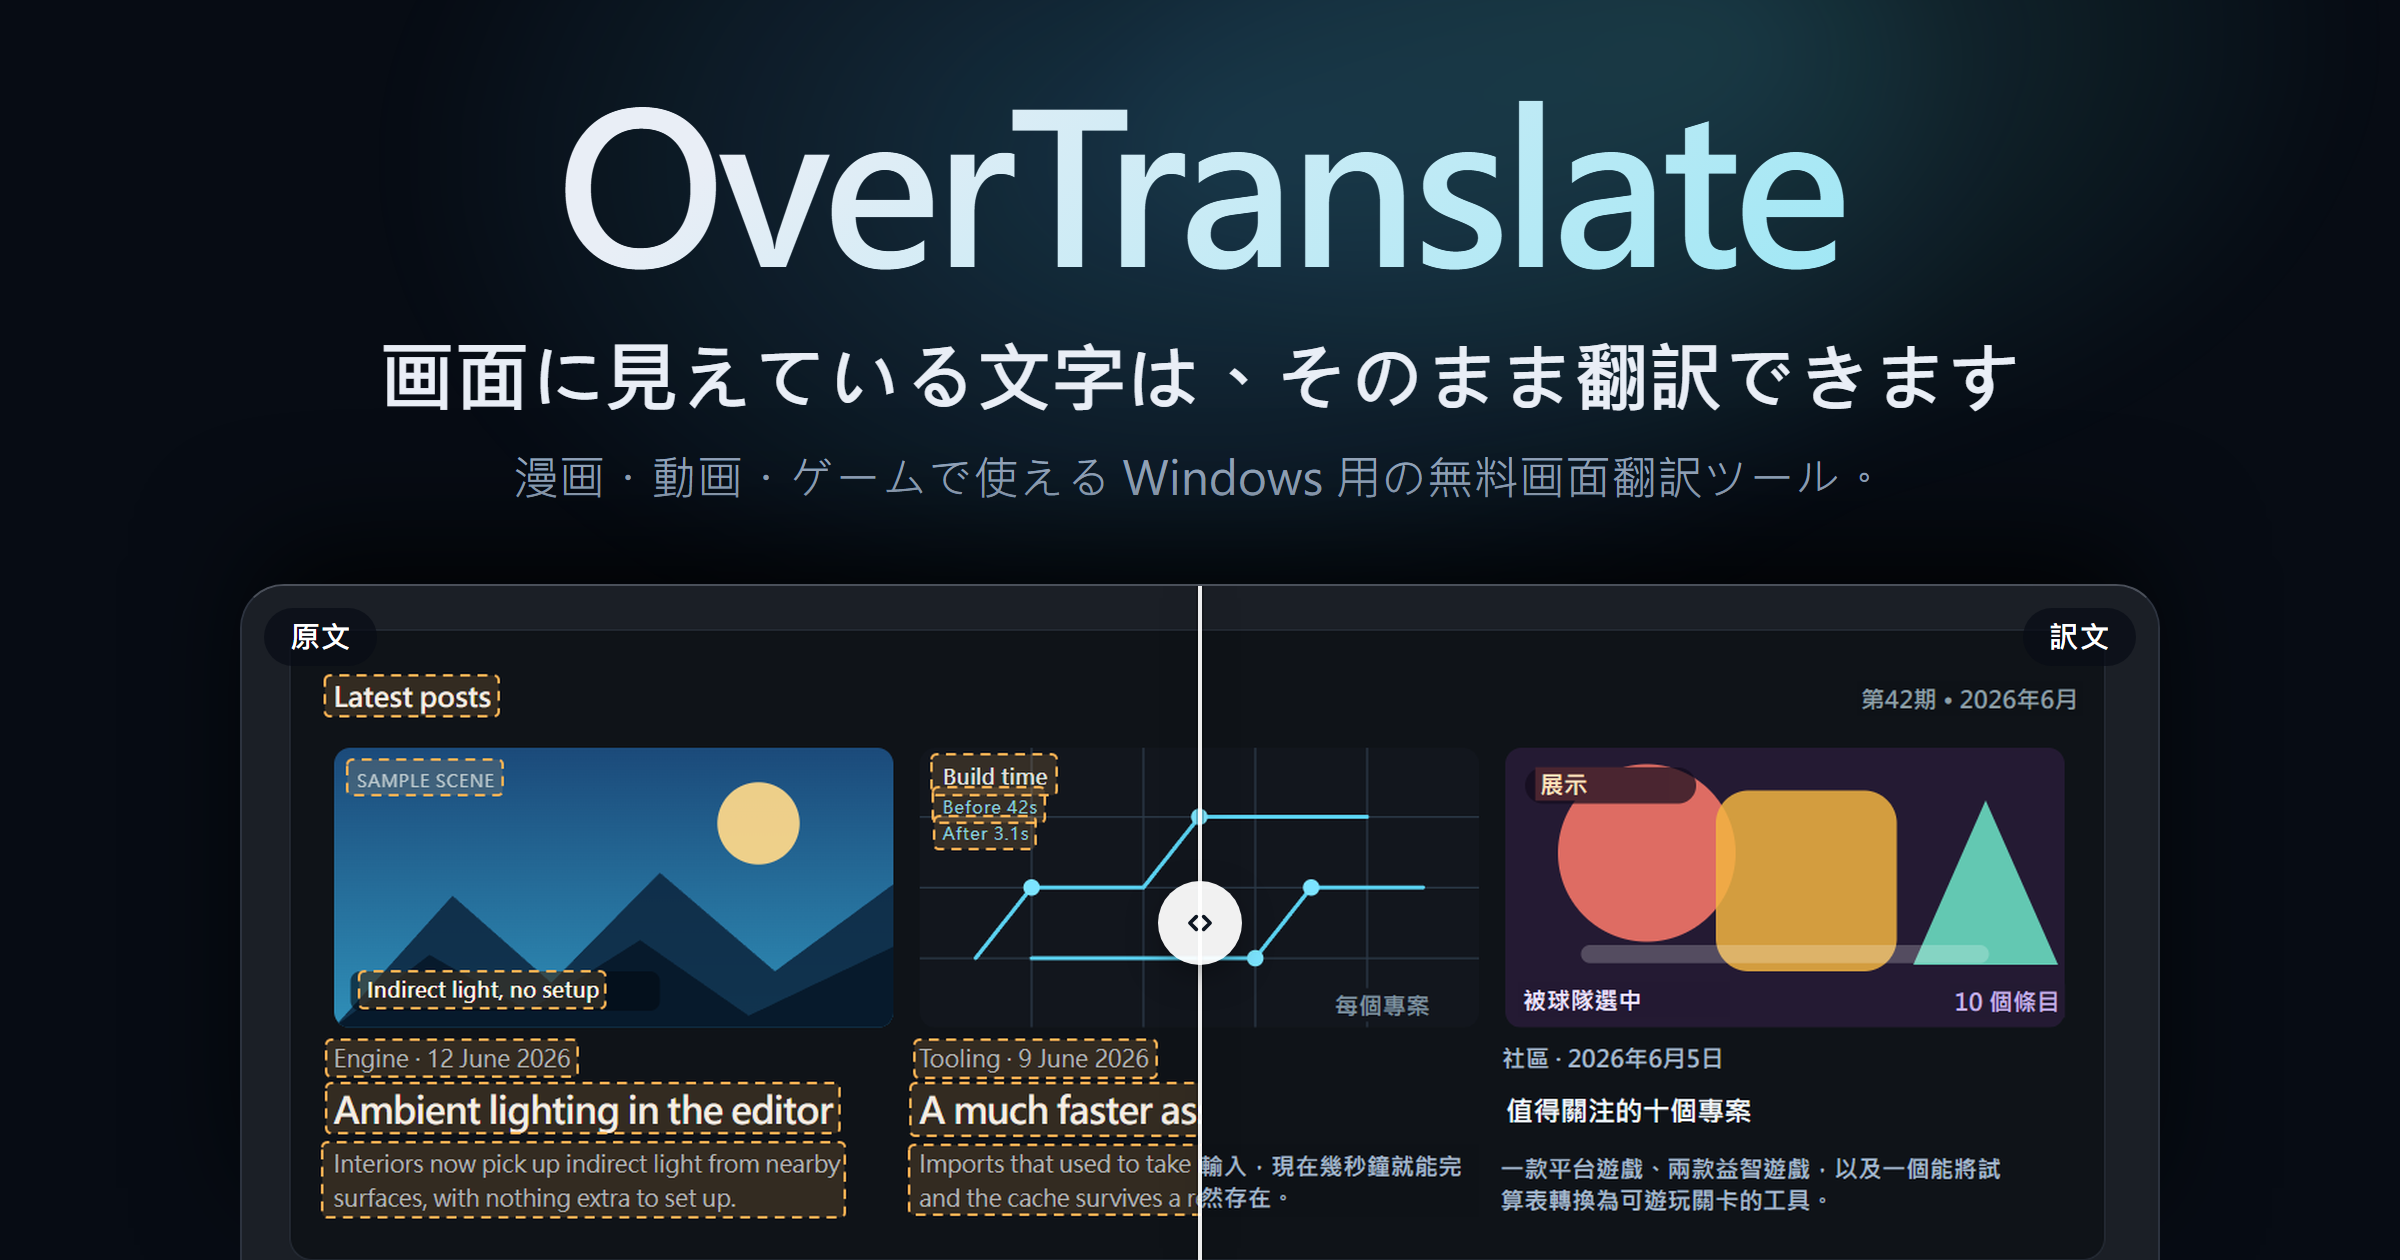
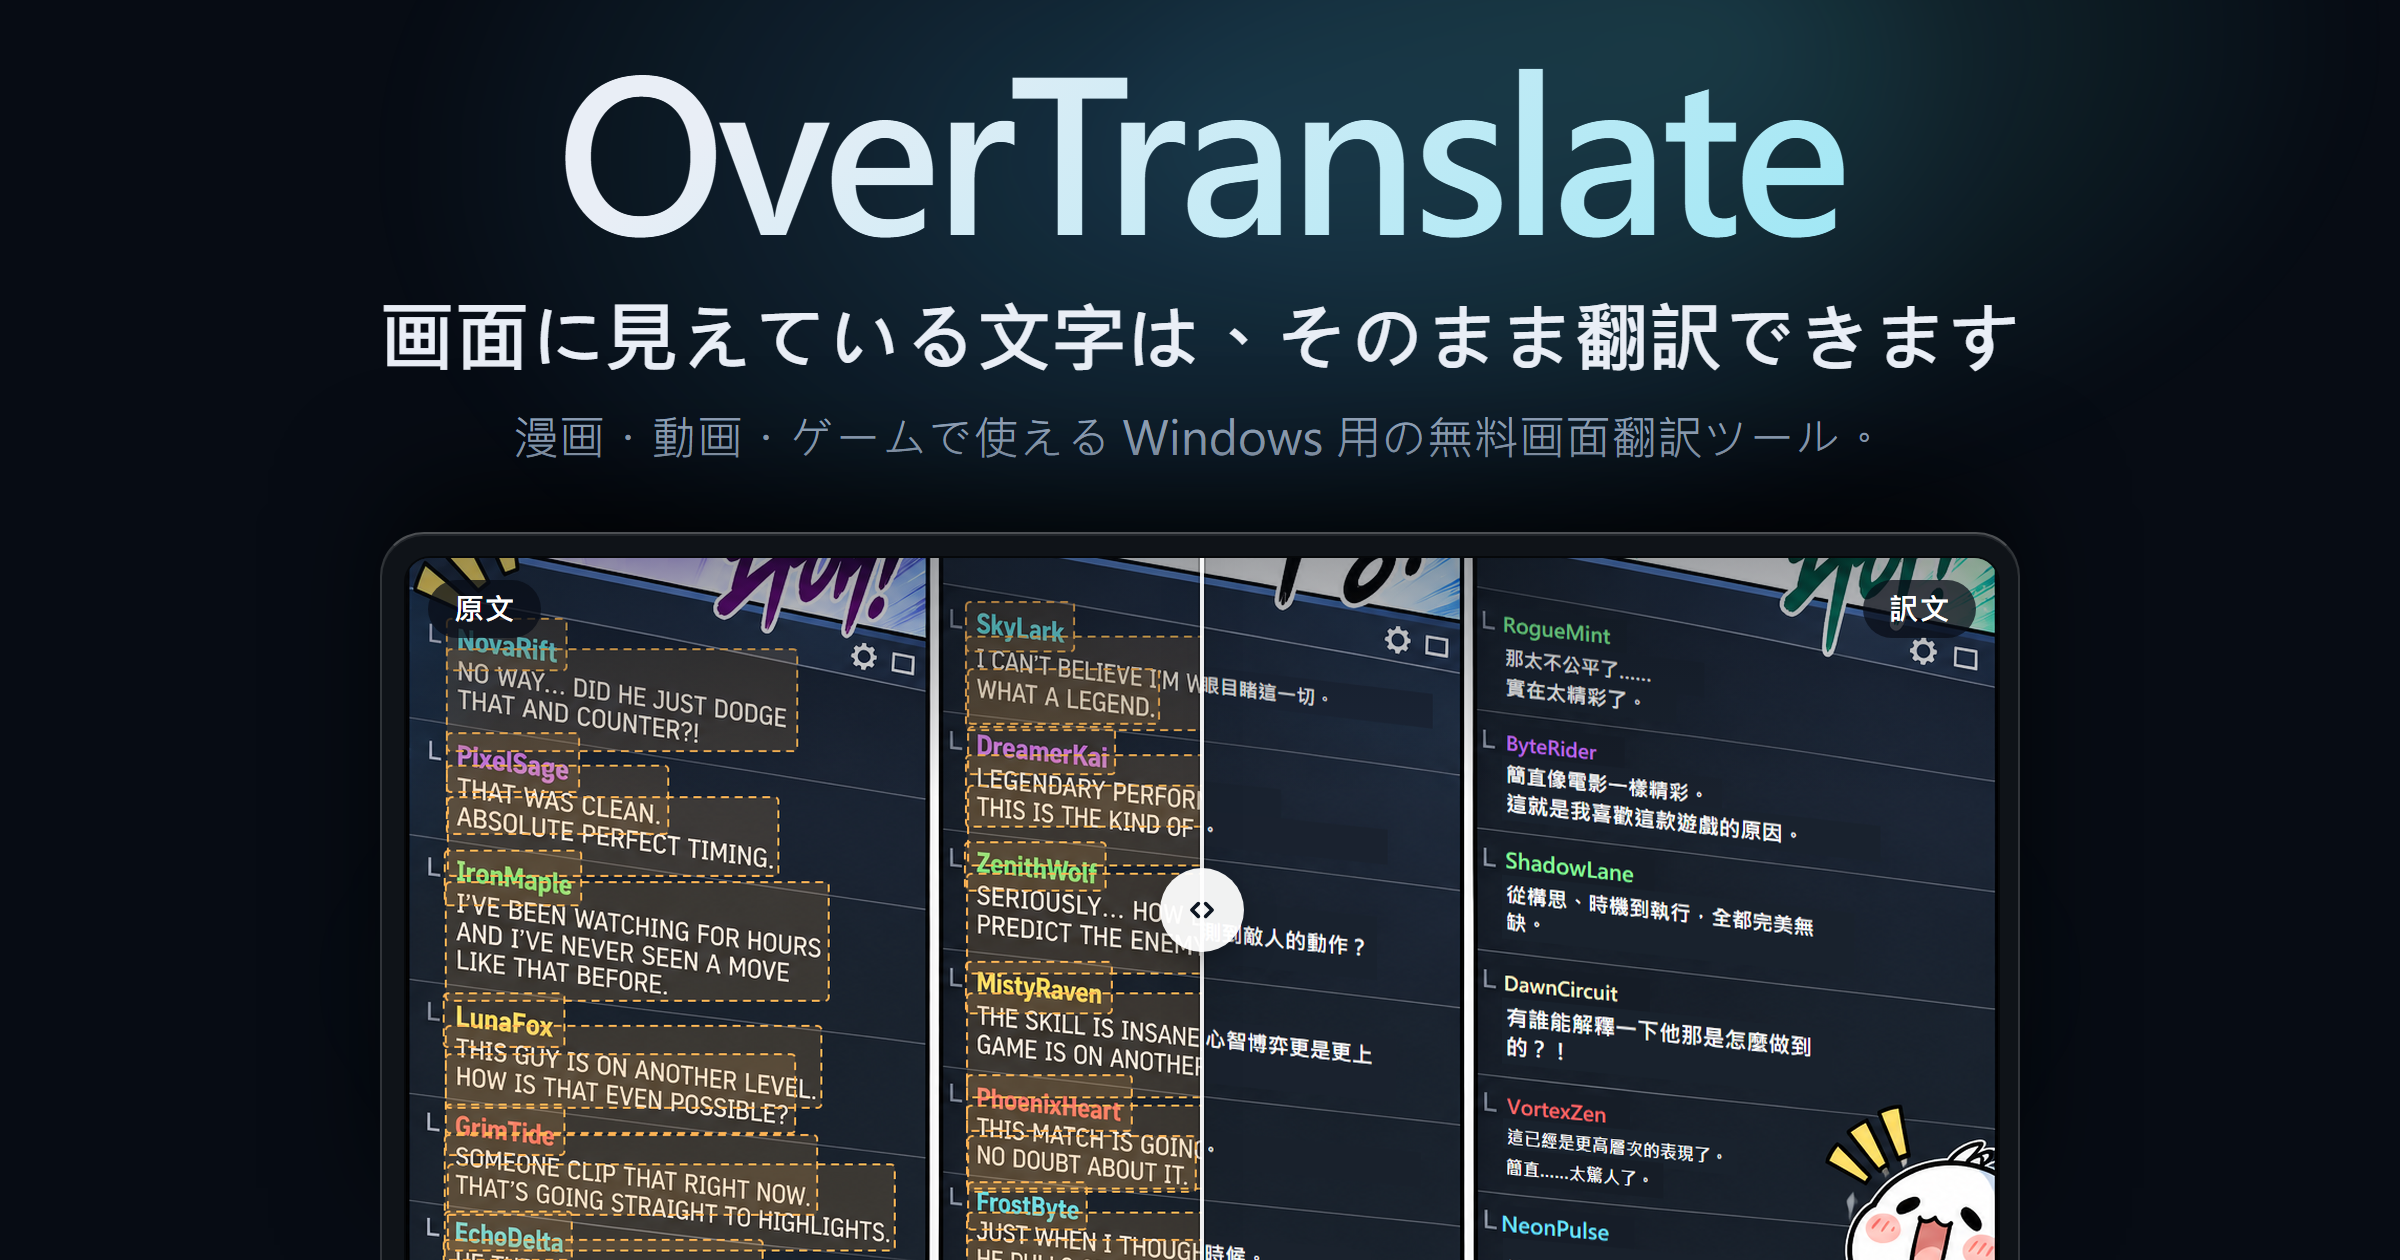
chore: 社群分享圖改用漫畫聊天室原圖，對照區加上卡片邊框並調整版面

diff --git a/tools/build-og.py b/tools/build-og.py
@@ -33,7 +33,9 @@ import subprocess
 import sys
 import tempfile
 
-from PIL import Image
+import math
+
+from PIL import Image, ImageDraw
 
 ROOT = os.path.dirname(os.path.dirname(os.path.abspath(__file__)))
 OUT_DIR = os.path.join(ROOT, 'docs', 'images', 'og')
@@ -77,10 +79,19 @@ SCALE = 2
 # 原圖上緣的留白要留著給「原文／譯文」標籤站，不能從那邊切。
 #
 # 寬度決定了整張圖的版面：對照區是固定比例，窄一點高度就跟著矮，上面留給文字的
-# 空間才長得出來。338 這個高度是量出來的 —— 來源圖最下面那條橘色框線在原圖的
-# 87.4% 處，縮到 960 寬之後落在 316px，再留 22px 才切，框線底部就剛好看得見又
-# 不貼著圖片邊界。換了來源截圖要重新量一次，不要沿用這個數字。
-SHOT_W, SHOT_MAX_H = 960, 338
+# 空間才長得出來。現在的來源是三格漫畫聊天室，重點是聊天內文不是上方的狀聲字，
+# 所以對照區做得比較窄、比較高（約 2.2:1），讓畫面縮小一點、多露出幾則訊息；
+# 高度往上長到副標下方還留約 30px 為止（見 .stack 的註解）。來源圖先裁成同樣比例，就不會再被從底部切。
+# 換了來源截圖要重新看一次，不要沿用這組數字。
+SHOT_W, SHOT_MAX_H = 820, 364
+
+# 卡片內距：圖不貼著卡片邊，四周（底部除外，底部是切出畫面的）留一圈卡片底色，
+# 看起來才是「一個視窗裡的畫面」，而不是一張圖直接貼上去。
+SHOT_PAD = 12
+
+# 分割線的斜度（度），0 是垂直。正值往右上、左下斜（/），愈往下譯文露得愈多。
+# 試過 5 度，最後還是維持垂直。合成兩半的遮罩和 HTML 那條線用同一個角度，兩者才會對齊。
+TILT_DEG = 0
 
 TEMPLATE = u'''<!doctype html>
 <meta charset="utf-8">
@@ -100,9 +111,9 @@ TEMPLATE = u'''<!doctype html>
       radial-gradient(38% 42% at 72% 42%, rgba(98, 239, 246, 0.16), transparent 70%);
   }}
   /* 三行字級都比網站大 —— 縮圖被平台縮到三四百 px 寬是常態，照抄網站的值會
-     小到讀不出來。整塊連同上方留白約 256px，剛好落在卡片上緣（y=292）之上，
-     底下還留得出約 36px 的呼吸空間。改字級記得重算這筆帳。 */
-  .stack {{ position: relative; padding-top: 40px; text-align: center; }}
+     小到讀不出來。整塊連同上方留白約 236px，落在卡片上緣（y=266）之上，
+     底下還留得出約 30px 的呼吸空間。改字級或 SHOT_MAX_H 記得重算這筆帳。 */
+  .stack {{ position: relative; padding-top: 24px; text-align: center; }}
   .name {{
     font-size: 104px; line-height: 1.04; font-weight: 700;
     letter-spacing: -0.035em;
@@ -110,7 +121,7 @@ TEMPLATE = u'''<!doctype html>
     -webkit-background-clip: text; background-clip: text; color: transparent;
   }}
   .claim {{
-    margin-top: 16px; font-size: 38px; line-height: 1.3; font-weight: 600;
+    margin-top: 12px; font-size: 38px; line-height: 1.3; font-weight: 600;
     letter-spacing: -0.018em; color: #e9eef6;
   }}
   .lede {{
@@ -127,17 +138,29 @@ TEMPLATE = u'''<!doctype html>
   }}
   .shot {{
     position: absolute; left: 50%; translate: -50% 0; bottom: 0;
-    width: {shot_w}px; height: {shot_h}px;
+    width: {shot_w}px; height: {shot_h}px; padding: {pad}px {pad}px 0;
     border: 1px solid rgba(255, 255, 255, 0.14);
     border-top-color: rgba(255, 255, 255, 0.26); border-bottom: 0;
-    border-radius: 22px 22px 0 0; overflow: hidden; background: #0b1220;
+    border-radius: 22px 22px 0 0; background: #0f1318;
     box-shadow: 0 -26px 60px -10px rgba(0, 0, 0, 0.85),
                 inset 0 1px 0 rgba(255, 255, 255, 0.08);
   }}
-  .shot img {{ display: block; width: {shot_w}px; height: {shot_h}px; }}
-  /* 以下三個都照抄網站的 .compare__handle / .compare__grip / .compare__tag */
+  .pic {{
+    position: relative; width: {pic_w}px; height: {pic_h}px;
+    border-radius: 12px 12px 0 0; overflow: hidden;
+    box-shadow: 0 0 0 1px rgba(0, 0, 0, 0.55);
+  }}
+  .pic img {{ display: block; width: {pic_w}px; height: {pic_h}px; }}
+  /* 上緣壓暗一點：來源圖上方的顏色很跳，不壓會比標題還搶眼 */
+  .pic::after {{
+    content: ""; position: absolute; inset: 0; pointer-events: none;
+    background: linear-gradient(rgba(7, 12, 20, 0.38), rgba(7, 12, 20, 0) 34%);
+  }}
+  /* 以下三個都照抄網站的 .compare__handle / .compare__grip / .compare__tag，
+     分割線多了 TILT_DEG 的斜度 */
   .divider {{
-    position: absolute; top: 0; bottom: 0; left: 50%; width: 2px; margin-left: -1px;
+    position: absolute; top: -20%; height: 140%; left: 50%; width: 2px; margin-left: -1px;
+    rotate: {tilt}deg; z-index: 1;
     background: rgba(255, 255, 255, 0.92);
     box-shadow: 0 0 0 1px rgba(0, 0, 0, 0.22), 0 0 18px rgba(0, 0, 0, 0.35);
   }}
@@ -145,7 +168,7 @@ TEMPLATE = u'''<!doctype html>
     position: absolute; top: 50%; left: 50%; translate: -50% -50%;
     display: grid; place-items: center; width: 42px; height: 42px;
     border-radius: 999px; background: rgba(255, 255, 255, 0.94);
-    box-shadow: 0 6px 20px -6px rgba(0, 0, 0, 0.6); color: #0d1622;
+    box-shadow: 0 6px 20px -6px rgba(0, 0, 0, 0.6); color: #0d1622; z-index: 2;
   }}
   .grip svg {{
     width: 22px; height: 22px; fill: none; stroke: currentColor;
@@ -154,7 +177,7 @@ TEMPLATE = u'''<!doctype html>
   .tag {{
     position: absolute; top: 11px; padding: 5px 13px; border-radius: 999px;
     background: rgba(8, 13, 22, 0.72); color: #fff;
-    font-size: 15px; font-weight: 620; letter-spacing: 0.02em;
+    font-size: 15px; font-weight: 620; letter-spacing: 0.02em; z-index: 2;
   }}
   .tag--before {{ left: 11px; }}
   .tag--after {{ right: 11px; }}
@@ -166,13 +189,13 @@ TEMPLATE = u'''<!doctype html>
   <p class="lede">{lede}</p>
 </div>
 <div class="halo"></div>
-<div class="shot">
+<div class="shot"><div class="pic">
   <img src="file:///{shot}" alt="">
   <span class="tag tag--before">{tag_before}</span>
   <span class="tag tag--after">{tag_after}</span>
   <span class="divider"></span>
   <span class="grip"><svg viewBox="0 0 24 24"><path d="M10 8.5 6.5 12l3.5 3.5M14 8.5l3.5 3.5L14 15.5"/></svg></span>
-</div>
+</div></div>
 '''
 
 
@@ -184,9 +207,10 @@ def find_edge():
 
 
 def compose_shot():
-    """左半原文、右半譯文，中間一條白線 —— 就是首頁那個比較滑桿的定格。
+    """左半原文、右半譯文，中間一條斜的白線 —— 首頁那個比較滑桿的定格。
 
     兩張圖要是同一塊畫面、同樣的裁切範圍，中間那條線才對得起來。
+    回傳合成圖的路徑與它在版面上的寬高（CSS px）。
     """
     for path in (BEFORE, AFTER):
         if not os.path.exists(path):
@@ -199,29 +223,37 @@ def compose_shot():
                          % (before.size + after.size))
 
     w, h = before.size
-    mid = w // 2
-    shot = before.copy()
-    shot.paste(after.crop((mid, 0, w, h)), (mid, 0))
 
-    # 分割線與握把由 HTML 疊上去，這裡只負責把兩半拼起來。
+    # 先縮放、切好高度，再拼兩半 —— 斜線的位置要用最終尺寸算，才會跟 HTML 那條線重合。
     # 圖本身做成 SCALE 倍，版面尺寸仍用 CSS px —— 交給瀏覽器放大只會更糊。
-    out_w = SHOT_W * SCALE
+    pic_w = SHOT_W - 2 * SHOT_PAD
+    out_w = pic_w * SCALE
     if out_w > w:
         sys.stdout.write(
             '  注意：來源截圖只有 %d px 寬，要填滿 %d px 是放大的。\n'
             '        要更銳利就重拍 og-src-before/after.png，至少 %d px 寬。\n'
             % (w, out_w, out_w))
     out_h = int(round(h * out_w / float(w)))
-    shot = shot.resize((out_w, out_h), Image.LANCZOS)
+    css_h = min(int(round(out_h / float(SCALE))), SHOT_MAX_H - SHOT_PAD)
+    size = (out_w, css_h * SCALE)
+    before = before.resize((out_w, out_h), Image.LANCZOS).crop((0, 0) + size)
+    after = after.resize((out_w, out_h), Image.LANCZOS).crop((0, 0) + size)
 
-    css_h = min(int(round(out_h / float(SCALE))), SHOT_MAX_H)
-    if out_h > css_h * SCALE:
-        shot = shot.crop((0, 0, out_w, css_h * SCALE))
+    # 遮罩：分割線右側取譯文。線通過正中央，上端往右、下端往左偏 TILT_DEG。
+    # 先畫 4 倍再縮，邊緣才不會鋸齒（雖然會被白線蓋住，縮圖放大時還是看得到）。
+    k = 4
+    W, H = size[0] * k, size[1] * k
+    off = math.tan(math.radians(TILT_DEG)) * H / 2.0
+    mask = Image.new('L', (W, H), 0)
+    ImageDraw.Draw(mask).polygon(
+        [(W / 2.0 + off, 0), (W, 0), (W, H), (W / 2.0 - off, H)], fill=255)
+    mask = mask.resize(size, Image.LANCZOS)
+    shot = Image.composite(after, before, mask)
 
     fd, tmp = tempfile.mkstemp(suffix='.png')
     os.close(fd)
     shot.save(tmp)
-    return tmp, css_h
+    return tmp, pic_w, css_h
 
 
 def strings(page):
@@ -241,7 +273,7 @@ def main():
     edge = find_edge()
     if not os.path.isdir(OUT_DIR):
         os.makedirs(OUT_DIR)
-    shot, shot_h = compose_shot()
+    shot, pic_w, pic_h = compose_shot()
 
     try:
         for lang, name, page, font in LANGS:
@@ -249,7 +281,8 @@ def main():
             html = TEMPLATE.format(
                 font=font, claim=s['hero.claim'], lede=LEDE[lang],
                 tag_before=s['compare.before'], tag_after=s['compare.after'],
-                shot=shot.replace('\\', '/'), shot_w=SHOT_W, shot_h=shot_h)
+                shot=shot.replace('\\', '/'), shot_w=SHOT_W, shot_h=pic_h + SHOT_PAD,
+                pad=SHOT_PAD, pic_w=pic_w, pic_h=pic_h, tilt=TILT_DEG)
 
             fd, tmp = tempfile.mkstemp(suffix='.html')
             os.close(fd)

diff --git a/docs/site/README.md b/docs/site/README.md
@@ -39,20 +39,21 @@ python tools/build-og.py
 跟首頁看起來才是同一套 —— **不要在 `build-og.py` 裡自己調字級**。
 
 下半部是**一張畫面切一半**：左半未翻譯、右半翻譯後，中間一條白線，
-等於把首頁的比較滑桿定格在正中間。原始畫面是 `tools/og-source.html`，
-刻意排成三欄讓分割線正好切過中間那張卡片，圖片裡也放了嵌入式小字 ——
-那才是 OCR 真正要處理的東西。
+等於把首頁的比較滑桿定格在正中間。原始畫面是 `docs/images/og/og-src.png`：
+一張三格漫畫風的直播聊天室插畫（英文），三格橫排讓分割線切過中間那格，
+聊天內文才是 OCR 真正要處理的東西，上方的狀聲字只是陪襯。
 
-要重拍那張對照時：
+要重做那張對照時：
 
-1. 瀏覽器開 `tools/og-source.html`
-2. 截一張存成 `docs/images/og/og-src-before.png`
-3. 用 OverTranslate 翻譯那塊畫面，再截一張存成 `docs/images/og/og-src-after.png`
+1. 開 `og-src.png`，截一張原文
+2. 用 OverTranslate 的截圖翻譯翻那張圖，再截一張譯文
+3. 兩張對齊後裁成一樣的範圍，存成 `docs/images/og/og-src-before.png`、`og-src-after.png`
 4. 跑 `python tools/build-og.py`
 
 **兩張要裁成一模一樣的範圍**，中間那條分割線才對得起來；尺寸不同產生器會擋下來。
-四個角記得留一點空白，「原文／譯文」的標籤要放在那裡。
-寬度會縮到 1060，高度照比例走，超過 374 就從底部切掉。
+裁的時候從聊天內文開始取（狀聲字只留一點邊），比例跟對照區的圖片一樣
+（`SHOT_W - 2 × SHOT_PAD` 比 `SHOT_MAX_H - SHOT_PAD`，現在是 796:352），就不會再被切。
+左右上角會放「原文／譯文」的標籤，正中央是滑桿握把。
 
 | 縮圖上的字 | 來源 |
 |------------|------|
